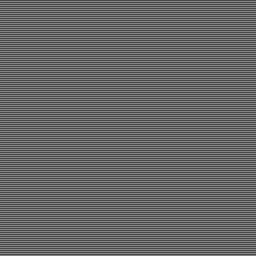
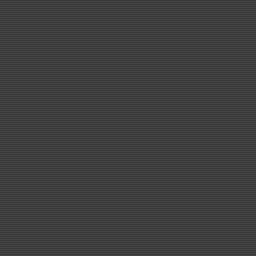
Add files via upload

diff --git a/index.html b/index.html
@@ -3,38 +3,44 @@
     <head>
         <meta charset="UTF-8">
         <title>Home-40k Collection</title>
+        <link
+            rel="stylesheet"
+            href="./style.css"
+        />
     </head>
     
     
     <body>
-        <h1>My 40k Collection</h1>
-        <nav>
-            <a href="./Index.html"><b>Home</b></a>
-            <a href="./Public/Space Marines.html"><b>Space Marines</b></a>
-            <a href="./Public/Necrons.html"><b>Necrons</b></a>
-            <a href="./Public/Drukhari.html"><b>Drukhari</b></a>
-        </nav>
-        <hr>
-
-        <p>
-            Since I was around 8 years old, I have had a real fond place in my heart for collecting,
-            playing & painting minature figurines from a table top war game called <i>Warhammer 40,000</i>.
+        <div class="Heading">
+            <h1>My 40k Collection</h1>
+        
+        <ul class="NavBar">
+            <li><a href="./index.html"><b>Home</b></a></li>
+            <li><a href="./Public/Space Marines.html"><b>Space Marines</b></a></li>
+            <li><a href="./Public/Necrons.html"><b>Necrons</b></a></li>
+            <li><a href="./Public/Drukhari.html"><b>Drukhari</b></a></li>            
+        </ul>
+        </div>
+        
+        <p class="bodytext">
+            Since I was around 8 years old, I have had a real fond place in my heart for 
+            collecting, playing & painting minature figurines from a table top war game 
+            called <i>Warhammer 40,000</i>.
             <br>
-            The game requires players to have a certain amount of models, formed into groups called units,
-            which then makes up an army that players use to play against other players on a battlefield of set proportions.
-            The battlefield size is stated in the games rules. 
+            In order to play a player require a certain amount of models formed into groups 
+            called units, which then makes up an army that players use to play against other
+            players on a battlefield of set proportions. The battlefield size is stated in the 
+            games' rules.
         </p>
-        <p>
-            new para
+        <p class="bodytext">
+            Over the years I have ended up with a collection of 3 different armies that I want to
+            share with you on this website's pages. I'll give a small explaination about each army and
+            why I liked them enough to collect and paint them.
+        </p>
+        <p class="bodytext">
+            Below is an image gallery of my favourite models accross my entire collection.
         </p>
 
-        <table style="border: 1px solid black">
-            <tr>
-                <th>Scan Lines</th>               
-            </tr>
-            <tr>
-                <td><img src="./Assets/Images/Scan Lines.jpg" height="480"/></td>
-            </tr>
-        </table>
+        
     </body>
 </html>

diff --git a/Public/Space Marines.html b/Public/Space Marines.html
@@ -3,17 +3,27 @@
     <head>
         <meta charset="UTF-8">
         <title>Space Marines Collection</title>
+        <link
+            rel="stylesheet"
+            href="../style.css"
+        />
     </head>
 
 
     <body>
-        <h1>Space Marines Collection</h1>
-        <nav>
-            <a href="../Index.html"><b>Home</b></a>
-            <a href="./Space Marines.html"><b>Space Marines</b></a>
-            <a href="./Necrons.html"><b>Necrons</b></a>
-            <a href="./Drukhari.html"><b>Drukhari</b></a>
-        </nav>
-        <hr>
+        <div class="Heading">
+            <h1>Space Marines Collection</h1>
+        
+        <ul class="NavBar">
+            <li><a href="../index.html"><b>Home</b></a></li>
+            <li><a href="./Space Marines.html"><b>Space Marines</b></a></li>
+            <li><a href="./Necrons.html"><b>Necrons</b></a></li>
+            <li><a href="./Drukhari.html"><b>Drukhari</b></a></li>
+        </ul>
+        </div>
+        
+        <p class="bodytext">
+            asds
+        </p>
     </body>
 </html>

diff --git a/Public/Necrons.html b/Public/Necrons.html
@@ -3,17 +3,27 @@
     <head>
         <meta charset="UTF-8">
         <title>Necrons Collection</title>
+        <link
+            rel="stylesheet"
+            href="../style.css"
+        />
     </head>
 
 
     <body>
-        <h1>Necrons Collection</h1>
-        <nav>
-            <a href="../Index.html"><b>Home</b></a>
-            <a href="./Space Marines.html"><b>Space Marines</b></a>
-            <a href="./Necrons.html"><b>Necrons</b></a>
-            <a href="./Drukhari.html"><b>Drukhari</b></a>
-        </nav>
-        <hr>
+        <div class="Heading">
+            <h1>Necronts Collection</h1>
+        
+        <ul class="NavBar">
+            <li><a href="../index.html"><b>Home</b></a></li>
+            <li><a href="./Space Marines.html"><b>Space Marines</b></a></li>
+            <li><a href="./Necrons.html"><b>Necrons</b></a></li>
+            <li><a href="./Drukhari.html"><b>Drukhari</b></a></li>
+        </ul>
+        </div>
+        
+        <p class="bodytext">
+            asds
+        </p>
     </body>
 </html>

diff --git a/Public/Drukhari.html b/Public/Drukhari.html
@@ -3,17 +3,27 @@
     <head>
         <meta charset="UTF-8">
         <title>Drukhari Collection</title>
+        <link
+            rel="stylesheet"
+            href="../style.css"
+        />
     </head>
 
 
     <body>
-        <h1>Drukhari Collection</h1>
-        <nav>
-            <a href="../Index.html"><b>Home</b></a>
-            <a href="./Space Marines.html"><b>Space Marines</b></a>
-            <a href="./Necrons.html"><b>Necrons</b></a>
-            <a href="./Drukhari.html"><b>Drukhari</b></a>
-        </nav>
-        <hr>
+        <div class="Heading">
+            <h1>Drukhari Collection</h1>
+    
+        <ul class="NavBar">
+            <li><a href="../index.html"><b>Home</b></a></li>
+            <li><a href="./Space Marines.html"><b>Space Marines</b></a></li>
+            <li><a href="./Necrons.html"><b>Necrons</b></a></li>
+            <li><a href="./Drukhari.html"><b>Drukhari</b></a></li>
+        </ul>
+        </div>
+        
+        <p class="bodytext">
+            asds
+        </p>
     </body>
 </html>

diff --git a/style.css b/style.css
@@ -1,0 +1,49 @@
+.Heading{
+    background-color: rgba(5, 5, 5, 0.281);
+    height: auto;
+    width: 50;
+    color: rgb(214, 212, 60);
+    text-align: center; 
+    text-shadow: 1px 1px 6px #000000;   
+}
+
+body{
+    background-image: url(./Assets/Images/Scan\ Lines.jpg);
+    background-position: left top;
+    background-repeat: repeat;    
+}
+
+.bodytext{
+    text-align: left;
+    color: #e4dfdf; 
+    text-shadow: 1px 1px 6px #000000;
+}
+
+a{
+    color: rgb(145, 211, 211);
+}
+a:hover{
+    background-color: rgb(5, 5, 5, 0.281);
+}
+
+a:active{
+    color: #000;
+}
+
+.NavBar {
+    text-align: center;
+    list-style-type: none;
+    background-color: #914242; 
+       
+}
+
+.NavBar li {
+    display: inline;
+    padding: 25px; 
+}
+
+
+   
+    
+
+
